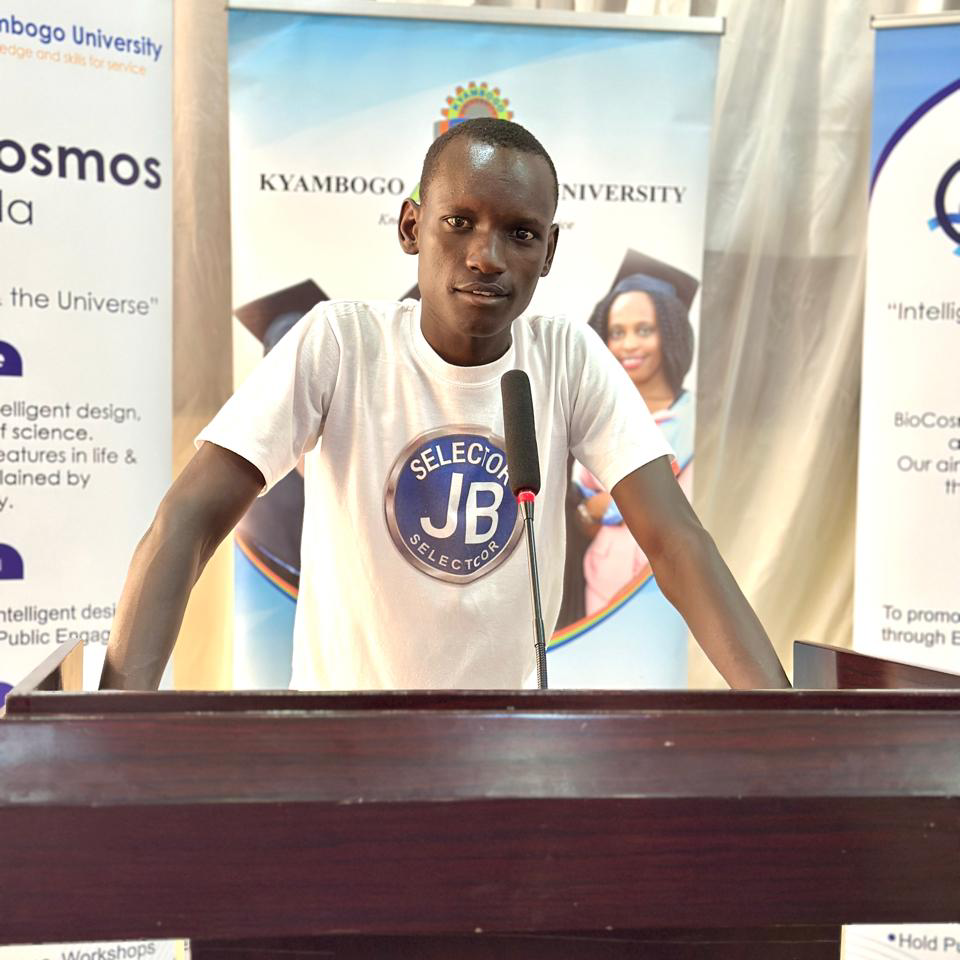
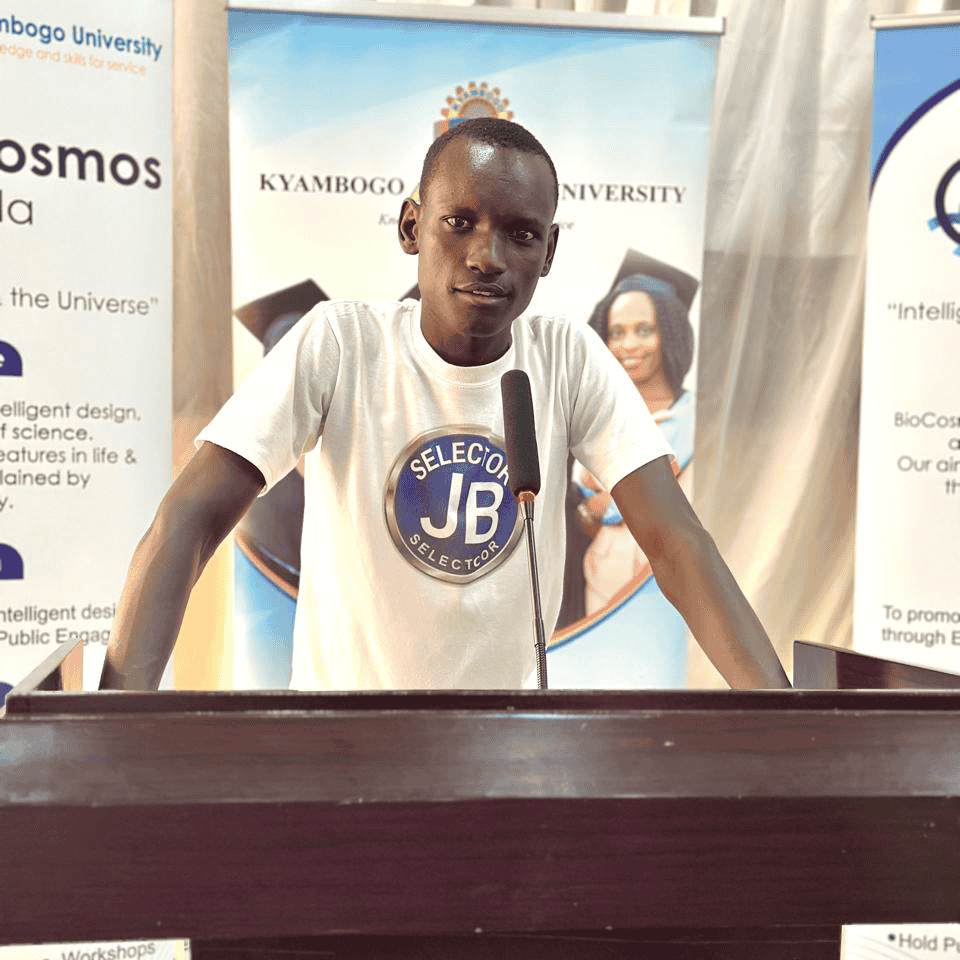
Updated the Portifolio

diff --git a/style.css b/style.css
@@ -29,7 +29,7 @@ main{
     justify-content: center;
     align-items: flex-start; /* Changed from default center/stretch */
     gap: 50px;
-    padding: 10px 0 10px 80px;
+    padding: 10px 0 10px 50px;
     position: fixed;
 }
 
@@ -40,7 +40,7 @@ main{
     display: flex;
     flex-direction: column;
     align-items: center;
-    gap: 100px; /* Reduced from 50px to eliminate excess bottom space */
+    gap: 50px; /* Reduced from 50px to eliminate excess bottom space */
     box-shadow: 0 0 20px #090f16;
     border-radius: 8px;
 }
@@ -138,7 +138,7 @@ main{
     display: flex;
     flex-direction: column;
     gap: 20px;
-    padding-right: 100px;
+    padding-right: 50px;
     overflow: scroll;
      scroll-behavior: smooth;
 }

diff --git a/index.html b/index.html
@@ -9,6 +9,7 @@
     <link rel="stylesheet" href="style.css">
     <link rel="stylesheet" href="responsiveness.css">
     <link rel="stylesheet" href="https://cdnjs.cloudflare.com/ajax/libs/font-awesome/6.5.1/css/all.min.css">
+    <link rel="icon" type="image/png" href="images/favicon.png">
 </head>
 
 <body>
@@ -84,7 +85,6 @@
                         <a href="#portifolio-section">Portfolio</a>
                         <a href="#services-section">Services</a>
                         <a href="#working-experience">Experience</a>
-                        <a href="#certifications">Certificates</a>
                         <a href="#contacts">Contact</a>
                         </nav>
                     </div>
